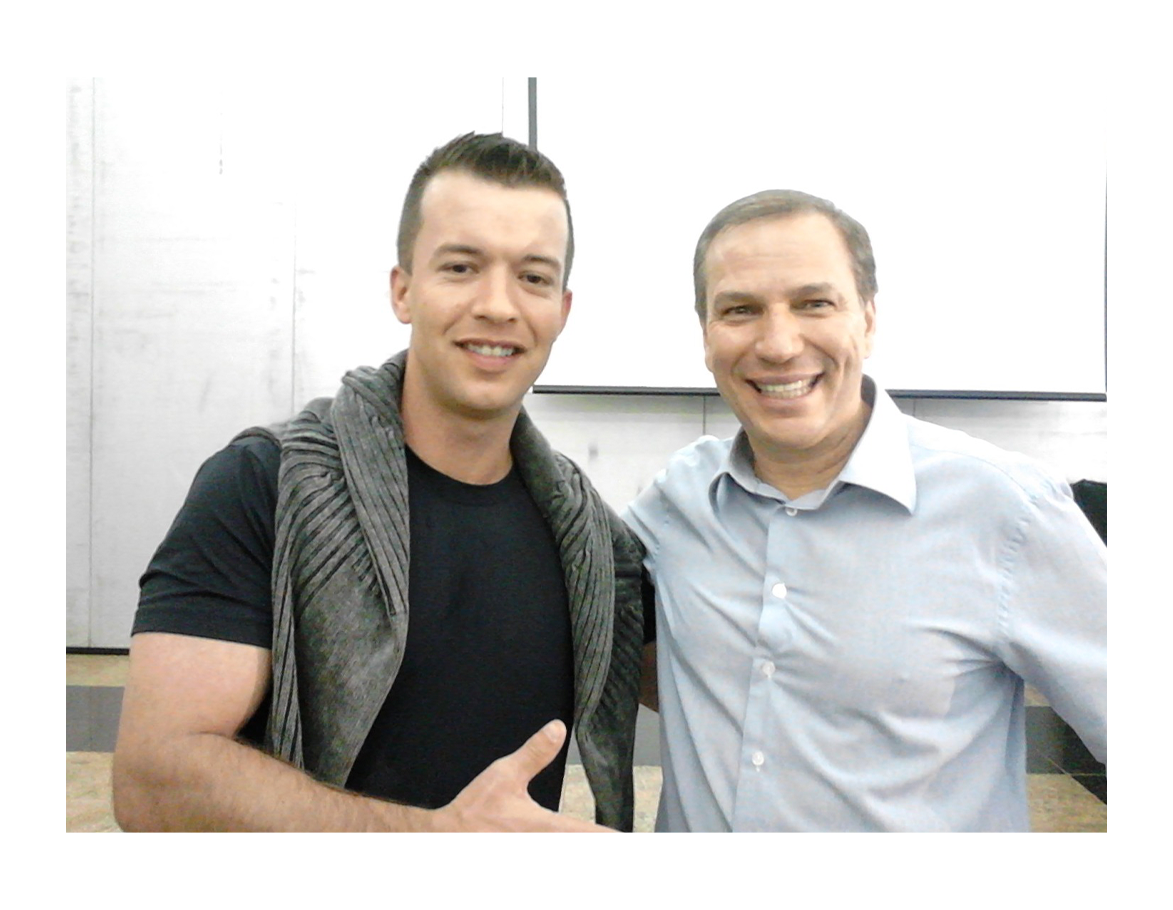
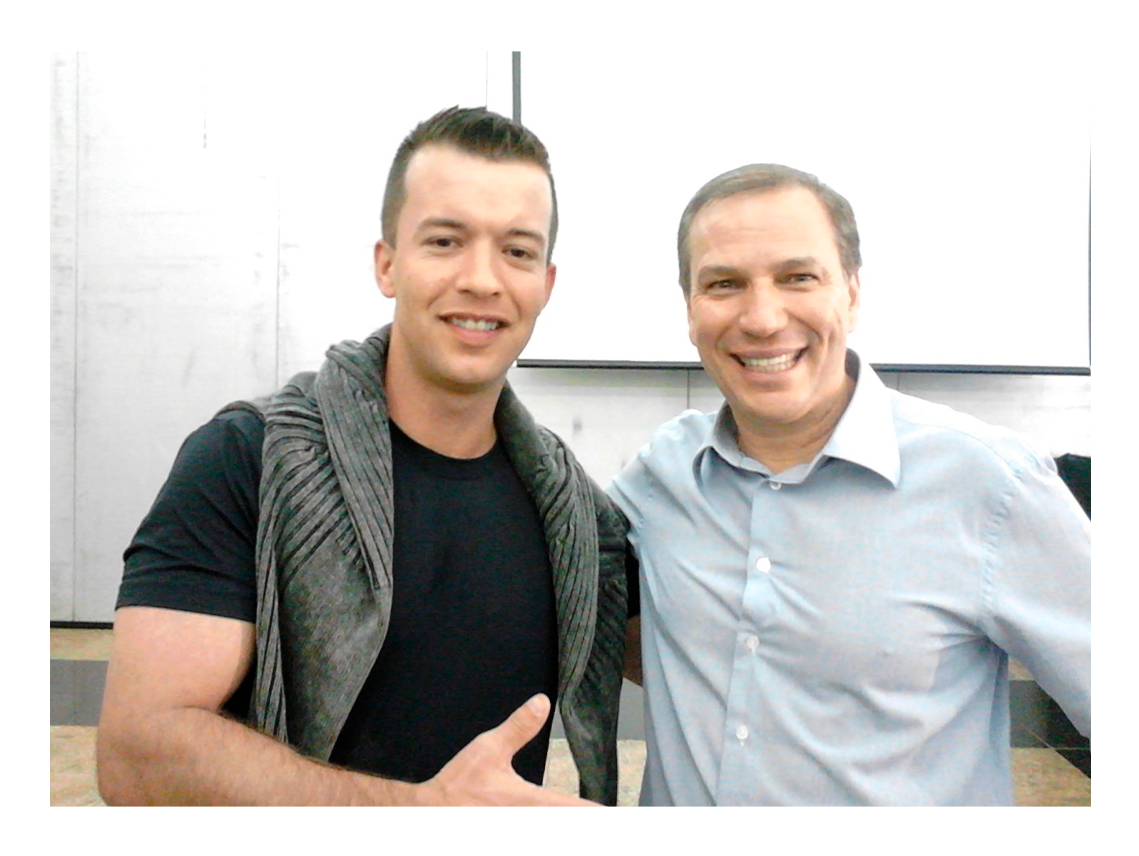
Ajuste Final: CSS

Changed region(s): [[0.0307, 0.1215, 0.9833, 0.9416], [0.8604, 0.5164, 0.9833, 0.6075], [0.4302, 0.0607, 0.4609, 0.0911]]

diff --git a/docs/assets/css/extra.css b/docs/assets/css/extra.css
@@ -88,12 +88,13 @@ h2 {
   display: flex; /* Usando flexbox para alinhar itens */
   align-items: center; /* Centralizar itens verticalmente */
   margin-top: 10px; /* Espaçamento superior */
+  width: 100%; /* Largura total */
+  flex-wrap: nowrap; /* Não permitir que itens sejam ajustados */
 }
 
 /* Estilos para a imagem */
 .custom-image {
-  width: 300px; /* Largura inicial da imagem */
-  max-width: 100%; /* Largura máxima igual à largura do contêiner pai */
+  width: 335px; /* Largura inicial da imagem */
   height: auto; /* Altura automática para manter proporções */
   margin-right: 20px; /* Espaçamento entre a imagem e o texto */
   box-shadow: 2px 2px 5px rgba(0, 0, 0, 0.5); /* Adicionar sombra à imagem */
@@ -102,24 +103,33 @@ h2 {
 /* Estilos para o texto à direita da imagem */
 .text-right {
   text-align: justify; /* Texto justificado */
-  max-width: calc(100% - 340px); /* Largura máxima do texto (largura total - largura da imagem - margem) */
   word-wrap: break-word; /* Quebra de palavra para palavras longas */
+  flex-grow: 1; /* Ocupar o espaço restante no contêiner */
+  width: calc(100% - 320px); /* Ajustar a largura do texto */
 }
 
 /* Media query para dispositivos móveis com largura máxima de 768px */
 @media only screen and (max-width: 768px) {
   .image-with-text {
-      flex-direction: column; /* Alinhar a imagem e o texto verticalmente em dispositivos móveis */
+    display: grid; /* Usar grid layout para itens */
+    grid-template-columns: 1fr 1fr; /* Duas colunas iguais */
+    gap: 10px; /* Espaçamento entre colunas */
   }
 
   .custom-image {
-      width: 100%; /* Defina a largura da imagem para ocupar toda a largura do contêiner em dispositivos móveis */
-      max-width: none; /* Remova a largura máxima para que a imagem possa ocupar a largura total do contêiner */
-      margin-right: 0; /* Remova o espaçamento à direita da imagem */
-      margin-bottom: 10px; /* Adicione espaçamento abaixo da imagem */
+    width: 100%; /* Ajustar a largura da imagem para 100% da coluna */
+    margin-right: 0; /* Remover espaçamento à direita da imagem */
   }
 
   .text-right {
-      max-width: 100%; /* Garanta que o texto ocupe toda a largura do contêiner em dispositivos móveis */
+    width: 100%; /* Ajustar a largura do texto para 100% da coluna */
+    text-align: justify; /* Garanta que o texto esteja justificado */
+  }
+}
+
+/* Media query para o modo escuro */
+@media (prefers-color-scheme: dark) {
+  .custom-image {
+    box-shadow: none; /* Remover a sombra da imagem no modo escuro */
   }
 }

diff --git a/docs/seminarios-didaticos.md b/docs/seminarios-didaticos.md
@@ -22,7 +22,7 @@
 <iframe style="position: absolute; top: 0; left: 0; width: 100%; height: 100%;" src="https://www.youtube.com/embed/iZ755NZ3VLc" title="MOTIVANDO TODOS PARA A QUALIDADE" frameborder="0" allow="accelerometer; autoplay; clipboard-write; encrypted-media; gyroscope; picture-in-picture" allowfullscreen></iframe>
 </div>
 ---
-??? note info ":octicons-mortar-board-16: Certificado ONDEC - Motivando Todos para os Novos Desafios"
+??? note Success ":octicons-mortar-board-16: Certificado ONDEC - Motivando Todos para os Novos Desafios"
     [:fontawesome-regular-file-pdf: Download](documentos/pdf/CERTIFICADO-MOTIVANDO-TODOS-PARA-OS-NOVOS-DESAFIOS.pdf){:download="CERTIFICADO-MOTIVANDO-TODOS-PARA-OS-NOVOS-DESAFIOS.pdf"} para análise e apreciação.
 
     ---
